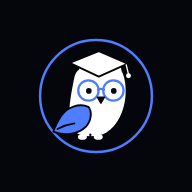
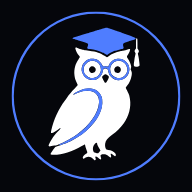
8.54: coruja nova (branca, óculos e capelo azuis, círculo preto com contorno azul) no ícone e no app
Claude-Session: https://claude.ai/code/session_0168VWPHQKDZsxdohENBWETL

diff --git a/index.html b/index.html
@@ -224,9 +224,9 @@ header{
 .header-app-title{display:block;height:1.75rem;width:auto}
 .side-logo-img{display:block;height:1.875rem;width:auto}
 .brand-owl{display:block;flex:none;color:var(--accent)}
-.auth-owl{width:5rem;height:5rem;margin:0 auto 0.75rem}
-.side-owl{width:2.5rem;height:2.5rem}
-.header-owl{width:2.125rem;height:2.125rem}
+.auth-owl{width:5.5rem;height:5.5rem;margin:0 auto 0.75rem}
+.side-owl{width:2.875rem;height:2.875rem}
+.header-owl{width:2.5rem;height:2.5rem}
 .header-brand{display:flex;align-items:center;gap:0.5rem}
 .auth-logo-img{display:block;height:3rem;width:auto;margin:0 auto 1rem}
 .home-greeting-text{
@@ -2375,7 +2375,7 @@ body.pdf-open{overflow:hidden}
 <canvas id="ribbonGlowCanvas" aria-hidden="true"></canvas>
 <svg style="display:none" aria-hidden="true">
 <defs>
-<symbol id="brand-owl" viewBox="0 0 512 512"><g transform="translate(256 256) scale(0.787) translate(-340 -365)" stroke-linejoin="round" stroke-linecap="round"><circle cx="340" cy="365" r="296" fill="#05060B" stroke="#4F7DFF" stroke-width="13"/><g transform="translate(0 22)"><path d="M224 252 C228 226 238 212 250 204 L256 186 L276 200 Q350 186 444 198 L470 184 L476 212 C494 244 500 296 496 344 C490 420 455 500 395 536 C362 556 310 560 270 552 C226 544 200 510 198 460 C196 400 210 320 224 252 Z" fill="#FFFFFF"/><ellipse cx="268" cy="560" rx="24" ry="15" fill="#FFFFFF"/><ellipse cx="352" cy="560" rx="24" ry="15" fill="#FFFFFF"/><path d="M310 546 V572" stroke="#05060B" stroke-width="10"/><path d="M200 168 L355 106 L508 172 L355 240 Z" fill="#FFFFFF" stroke="#05060B" stroke-width="10"/><path d="M500 178 L512 228" stroke="#FFFFFF" stroke-width="7" fill="none"/><circle cx="512" cy="236" r="13" fill="#FFFFFF"/><circle cx="300" cy="314" r="54" fill="#FFFFFF" stroke="#4F7DFF" stroke-width="12"/><circle cx="432" cy="314" r="54" fill="#FFFFFF" stroke="#4F7DFF" stroke-width="12"/><path d="M350 310 Q366 300 382 310" fill="none" stroke="#4F7DFF" stroke-width="12"/><circle cx="302" cy="316" r="15" fill="#05060B"/><circle cx="434" cy="316" r="15" fill="#05060B"/><path d="M346 348 H386 L366 382 Z" fill="#05060B" stroke="#05060B" stroke-width="6"/><path d="M300 400 C250 380 186 402 156 448 C136 478 122 506 114 532 C166 556 244 548 286 506 C314 476 322 428 300 400 Z" fill="#4F7DFF" stroke="#05060B" stroke-width="10"/><path d="M136 518 Q180 494 226 488" fill="none" stroke="#05060B" stroke-width="9"/></g></g></symbol>
+<symbol id="brand-owl" viewBox="72 72 880 880"><circle cx="512" cy="512" r="434" fill="#05060B" stroke="#4F7DFF" stroke-width="12"/><path d="M497.3 840.5C488.9 831.6 480.4 827.5 471.9 828.3C466.2 828.8 457.9 832.2 450.3 837.1C446.3 839.7 443.0 838.4 443.0 834.2C443.1 827.1 449.6 818.8 460.0 812.6C468.2 807.7 468.4 806.6 462.2 791.3C459.4 784.3 456.8 776.5 456.5 774.0C455.5 766.4 455.1 765.2 453.5 764.6C452.6 764.3 446.3 767.4 438.0 772.4C386.7 803.3 335.1 819.1 288.2 818.3C278.0 818.2 275.0 817.3 275.0 814.4C275.0 812.3 296.7 780.5 299.9 777.7C302.5 775.5 314.7 771.2 327.5 767.9C330.2 767.2 334.5 765.8 337.0 764.7C339.5 763.7 345.9 761.2 351.4 759.3C362.4 755.5 391.2 741.4 402.8 734.1C407.1 731.5 413.6 727.6 417.5 725.5C442.7 711.7 478.2 680.3 501.4 651.5C513.2 636.7 518.3 628.8 527.9 610.0C542.2 582.0 547.2 557.2 544.1 529.5C543.2 520.8 542.4 518.3 538.4 510.2C531.6 496.6 521.4 486.3 508.2 479.6C493.7 472.3 467.3 470.4 448.6 475.4C435.9 478.8 415.9 488.0 404.5 495.7C389.2 505.9 388.9 508.4 403.6 501.5C416.3 495.5 436.0 488.4 445.8 486.4C450.6 485.4 458.9 484.7 467.5 484.6C479.7 484.5 482.5 484.8 489.0 486.9C503.4 491.5 508.2 494.8 516.5 505.6C525.4 517.1 528.7 529.8 527.7 547.5C524.6 599.9 480.5 663.1 412.7 712.5C400.6 721.3 396.4 723.9 377.5 735.2C362.0 744.4 334.1 758.5 326.5 761.0C324.3 761.7 319.8 763.6 316.5 765.2C313.2 766.7 309.3 768.0 307.8 768.0C306.4 768.0 300.5 769.1 294.8 770.4C270.8 776.1 265.0 776.1 265.0 770.4C265.0 767.2 274.0 749.5 282.4 736.2C291.5 721.8 299.7 711.4 311.9 698.7C323.4 686.6 327.0 682.1 327.0 679.6C327.0 677.1 326.0 677.6 318.5 683.6C303.9 695.3 288.5 704.0 281.9 704.4C276.6 704.6 276.3 702.7 279.4 688.8C291.3 635.9 318.2 577.4 349.5 536.5C352.9 532.1 358.3 524.5 361.6 519.5C371.2 505.0 384.3 489.6 401.2 472.9C411.3 462.9 417.0 456.5 417.0 455.2C417.0 454.1 414.3 447.8 411.1 441.3C404.4 427.9 401.5 418.5 400.0 405.5C398.0 387.5 399.1 372.8 403.5 356.8C407.1 344.1 411.7 334.6 420.5 321.4C424.6 315.3 428.0 309.6 428.0 308.7C428.0 307.8 425.3 304.0 421.9 300.3C414.8 292.3 408.6 280.7 405.9 270.2C404.2 263.4 404.1 262.4 405.5 260.3C406.4 259.0 407.3 258.0 407.6 258.0C407.8 258.0 411.3 259.5 415.3 261.4C419.3 263.3 427.8 266.4 434.2 268.3C446.0 271.9 449.2 272.5 475.0 276.0C516.9 281.7 535.2 287.7 556.3 302.9C562.8 307.6 567.1 310.0 568.9 310.0C570.7 310.0 573.8 308.3 577.9 305.0C592.2 293.5 616.9 283.0 637.8 279.4C642.6 278.6 649.2 277.5 652.5 276.9C660.0 275.6 670.3 272.6 679.9 268.8C686.3 266.3 687.5 266.1 688.7 267.3C691.9 270.5 685.6 287.7 677.1 298.9C674.7 302.1 673.0 305.5 673.0 307.0C673.0 308.5 674.9 312.3 677.6 316.1C686.3 328.1 695.0 349.5 695.2 359.0C695.3 361.5 694.5 365.7 693.6 368.4L691.9 373.3L695.0 379.7C699.1 388.2 699.7 393.9 697.6 405.2C693.5 426.8 686.4 443.2 674.6 457.9C670.4 463.1 667.0 468.3 667.0 469.5C667.0 470.7 668.4 473.8 670.2 476.6C674.4 483.2 682.2 499.9 684.9 508.0C686.0 511.6 687.9 520.8 689.1 528.5C695.4 570.1 683.9 614.4 656.8 653.7C642.7 674.1 618.0 698.6 594.3 715.6C572.7 731.2 562.6 744.0 559.9 759.4C557.8 771.5 560.8 786.2 566.2 790.8C566.9 791.4 571.1 792.2 575.5 792.6C591.7 794.0 603.5 799.4 610.7 808.8C615.4 814.9 616.8 820.2 614.6 823.5C613.7 824.9 612.3 826.0 611.6 826.0C610.8 826.0 607.8 823.9 604.8 821.4C592.9 811.2 585.6 810.3 589.4 819.5C591.3 824.0 591.5 829.1 589.8 830.8C587.3 833.3 583.8 832.0 577.7 826.3C568.7 818.0 562.6 815.5 552.0 815.6C545.7 815.6 542.4 816.1 539.5 817.6C535.8 819.4 535.5 819.8 535.6 823.5C535.7 825.7 536.6 829.6 537.6 832.3C539.3 836.6 539.4 837.3 538.0 839.8C537.1 841.3 535.7 842.6 534.8 842.8C533.9 843.0 530.1 840.4 526.2 836.8C522.4 833.3 517.4 829.6 515.1 828.6C511.3 826.8 510.8 826.8 509.4 828.2C508.0 829.6 508.0 830.3 509.6 835.4C511.9 842.6 510.9 846.4 506.5 846.8C503.9 847.0 502.6 846.1 497.3 840.5ZM528.7 804.8C532.4 801.2 535.0 797.7 535.0 796.5C535.0 795.4 532.1 789.7 528.5 784.0C521.9 773.3 518.0 764.7 518.0 760.7C518.0 754.6 512.6 754.5 506.6 760.5C497.3 769.9 493.6 784.4 497.4 797.3C499.3 803.8 502.1 806.4 508.8 807.9C511.4 808.4 514.6 809.3 516.0 809.9C520.7 811.7 522.4 811.1 528.7 804.8ZM568.6 436.0C573.8 427.9 579.0 416.2 579.0 412.6C579.0 410.6 577.4 408.8 571.7 404.5C562.1 397.4 560.4 397.3 551.4 404.3C541.9 411.6 541.8 413.2 550.1 428.2C557.4 441.5 558.5 443.0 561.7 443.0C563.5 443.0 565.1 441.4 568.6 436.0ZM642.8 428.0C654.0 424.9 661.7 420.5 669.1 413.1C687.1 395.1 691.2 367.2 678.9 346.3C674.4 338.7 662.7 327.0 656.8 324.2C644.0 318.3 631.1 316.7 617.5 319.5C607.3 321.6 603.8 323.3 596.1 329.5C588.1 336.0 583.1 342.4 579.1 351.2C575.7 358.9 574.1 359.7 566.9 357.9C562.9 356.9 560.8 356.9 555.9 357.9C548.5 359.4 548.3 359.2 543.2 349.6C538.8 341.0 526.0 327.7 518.3 323.7C503.9 316.0 479.6 316.3 466.0 324.3C458.3 328.8 447.1 340.3 443.7 347.2C436.9 360.8 435.3 375.7 439.4 387.6C446.3 407.8 454.7 417.5 472.2 425.3C479.3 428.4 479.9 428.5 493.5 428.5C506.7 428.5 507.8 428.3 513.4 425.7C531.9 417.1 544.4 401.5 547.2 383.3C548.5 374.6 550.1 371.7 554.4 369.6C560.4 366.8 568.2 368.1 572.3 372.7C573.3 373.9 575.2 379.6 576.5 385.5C579.5 398.6 582.1 403.3 591.7 412.8C606.3 427.3 625.2 432.9 642.8 428.0ZM483.6 418.0C475.9 416.7 468.1 412.2 460.4 404.5C450.5 394.7 448.6 389.6 448.5 373.5C448.5 362.2 448.7 361.2 451.5 355.5C455.5 347.5 465.4 337.1 473.1 333.0C482.1 328.2 493.2 327.1 503.6 330.0C514.1 332.8 518.6 335.4 524.8 341.9C533.1 350.5 536.1 357.8 537.5 372.5C538.1 378.4 537.8 380.5 535.9 385.5C531.5 397.4 522.2 409.2 514.1 413.5C509.8 415.7 496.3 419.0 492.0 418.9C490.1 418.8 486.3 418.4 483.6 418.0ZM619.5 417.1C610.8 414.5 605.3 411.4 599.2 405.7C590.7 397.5 588.3 392.3 586.0 376.8C583.1 356.9 599.1 334.6 619.9 329.5C633.4 326.2 649.7 330.3 660.1 339.7C668.2 347.0 672.7 356.1 675.1 369.5C676.0 374.6 675.9 376.9 674.5 382.6C669.9 401.2 655.5 415.2 638.0 418.0C629.4 419.3 626.6 419.2 619.5 417.1ZM501.0 390.0C505.8 387.5 510.0 381.6 510.7 376.1C512.1 365.7 500.5 355.4 489.6 357.4C484.7 358.3 477.6 365.2 476.0 370.5C473.8 377.9 478.3 387.5 485.5 390.6C489.9 392.5 496.5 392.3 501.0 390.0ZM631.4 390.6C635.3 389.0 639.3 384.1 641.0 378.7C644.2 368.7 634.6 356.9 623.4 357.0C619.0 357.1 613.0 360.9 609.9 365.7C607.2 369.9 606.9 371.2 607.2 376.1C607.7 382.7 610.4 387.1 615.8 390.0C620.2 392.3 626.8 392.5 631.4 390.6ZM720.0 359.3C710.9 357.9 709.0 356.0 709.0 348.6C709.0 345.7 709.4 340.9 710.0 338.1C710.5 335.2 711.5 328.7 712.0 323.7C712.6 318.6 714.3 309.2 715.8 302.7L718.4 290.8L715.7 286.0C712.1 279.7 712.3 277.0 716.5 270.1L720.1 264.3L720.5 238.9C720.7 224.9 720.9 213.2 720.9 212.8C721.1 211.1 726.0 212.1 727.0 213.9C727.6 215.1 728.0 225.4 728.0 240.3L728.0 264.8L731.5 269.8C736.5 277.1 736.6 278.6 733.0 285.4L729.8 291.3L732.4 301.9C734.8 312.3 737.8 332.8 738.7 346.3C739.2 352.4 739.0 353.4 737.0 355.5C734.3 358.3 725.7 360.3 720.0 359.3Z" fill="#FFFFFF" fill-rule="evenodd"/><path d="M320.9 767.4C318.9 764.9 320.9 762.8 327.6 760.5C330.8 759.4 338.7 755.8 345.0 752.5C351.3 749.3 359.0 745.4 362.0 743.9C365.0 742.4 372.4 738.2 378.5 734.7C399.7 722.1 401.3 721.0 423.3 704.7C434.3 696.5 458.5 674.6 464.3 667.6C466.6 664.8 472.2 658.5 476.8 653.7C481.3 648.8 486.3 642.9 488.0 640.6C494.9 631.1 505.8 614.1 508.8 608.5C512.4 601.7 520.0 584.4 520.0 583.1C520.0 582.5 520.7 580.6 521.5 579.1C525.9 570.4 529.3 540.9 527.1 530.0C525.1 519.8 523.0 513.5 521.0 511.0C519.9 509.6 517.4 506.4 515.5 503.9C509.5 495.9 503.7 492.0 492.6 488.2C478.2 483.3 462.5 482.9 443.0 486.9C434.8 488.6 415.3 495.9 406.4 500.5C397.8 505.0 394.5 505.8 394.5 503.1C394.5 501.7 410.0 491.1 416.0 488.4C417.9 487.5 423.6 485.0 428.5 482.8C447.7 474.1 467.3 470.5 482.0 472.9C498.2 475.4 500.7 476.0 506.5 478.6C522.3 485.7 538.4 504.1 542.4 519.6C545.8 532.6 545.3 563.5 541.7 575.0C540.9 577.5 539.4 582.0 538.5 585.0C536.1 592.9 528.8 609.5 524.4 617.0C522.4 620.6 519.2 626.2 517.4 629.4C511.7 639.8 495.0 660.1 478.0 677.0C455.4 699.7 440.3 711.9 421.5 723.0C417.6 725.3 409.8 730.0 404.0 733.5C388.8 742.6 352.8 760.0 349.2 760.0C348.7 760.0 344.0 761.7 338.9 763.9C327.1 768.7 322.7 769.6 320.9 767.4ZM625.0 429.4C609.9 427.2 602.2 423.3 591.2 412.3C581.4 402.5 579.0 397.9 576.1 383.7C573.9 372.8 573.4 371.9 568.6 369.6C562.2 366.6 552.8 368.3 549.6 373.2C548.8 374.4 547.8 378.4 547.5 382.0C547.0 386.7 545.6 391.1 542.3 398.0C536.4 410.4 529.2 417.6 516.6 424.0L507.7 428.5L493.6 428.5C480.0 428.5 479.3 428.4 472.3 425.3C468.3 423.6 462.6 420.5 459.6 418.5C448.2 411.0 437.0 389.0 437.0 374.1C437.0 358.1 445.7 339.0 456.8 330.7C463.5 325.6 472.2 320.9 476.9 319.8C491.0 316.7 508.3 318.3 518.3 323.8C528.6 329.3 539.4 341.3 545.2 353.5C547.8 359.0 547.3 358.9 559.6 357.4C563.1 357.0 565.8 357.3 568.5 358.4C570.5 359.3 572.6 360.0 573.1 360.0C574.9 360.0 578.0 355.5 579.6 350.6C582.7 341.1 594.0 329.3 605.5 323.3C607.9 322.1 613.2 320.4 617.3 319.6C644.0 314.1 666.6 324.5 680.0 348.2C690.8 367.6 686.6 394.6 670.0 412.4C658.8 424.3 639.8 431.5 625.0 429.4ZM504.0 417.0C513.5 414.6 517.8 412.1 524.1 405.4C529.7 399.3 533.2 393.4 536.0 385.2C537.8 380.0 538.1 377.7 537.5 371.7C535.3 348.5 524.9 335.9 502.9 329.5C494.8 327.2 483.6 328.3 474.8 332.2C466.3 336.1 455.3 347.0 451.2 355.7C448.7 361.1 448.5 362.4 448.5 374.5C448.5 387.1 448.6 387.7 451.7 393.5C457.7 404.9 472.0 416.0 483.1 417.9C491.7 419.3 495.2 419.1 504.0 417.0ZM643.1 417.1C649.3 415.8 654.2 412.7 661.4 405.5C669.1 397.8 672.3 392.4 674.5 383.3C676.4 375.1 676.0 369.0 672.8 359.5C668.7 347.1 661.4 338.7 649.8 333.0C643.4 329.9 640.7 329.2 633.3 328.6C619.0 327.5 607.5 332.1 598.0 342.8C591.1 350.6 588.5 355.2 586.6 363.8C584.9 371.1 585.1 373.2 587.9 387.7C590.3 400.2 603.4 412.5 619.5 417.4C624.8 419.0 634.7 418.9 643.1 417.1ZM558.9 292.5C554.3 289.5 550.0 287.0 549.3 287.0C548.6 287.0 545.2 285.5 541.8 283.6C527.9 276.0 503.0 269.2 480.5 266.9C470.4 265.9 466.0 264.2 466.0 261.4C466.0 260.6 466.9 258.1 468.1 255.9C470.6 250.9 471.6 243.1 470.1 240.3C468.9 237.9 458.7 233.7 447.4 231.0C443.2 229.9 435.6 227.7 430.6 226.1C419.5 222.4 397.8 215.6 393.0 214.3C386.7 212.7 388.1 210.7 398.6 206.6C404.0 204.6 412.2 202.0 416.9 200.9C421.6 199.7 428.9 197.6 433.0 196.0C441.5 192.8 457.5 187.9 466.5 185.7C469.8 184.9 477.7 182.4 484.0 180.1C490.3 177.8 498.6 175.2 502.5 174.4C506.4 173.5 511.1 172.0 513.0 171.1C514.9 170.1 520.1 168.6 524.5 167.6C528.9 166.6 535.0 164.9 538.0 163.8C541.0 162.8 546.0 161.2 549.0 160.5C552.0 159.7 556.5 158.4 558.9 157.6C564.5 155.6 570.7 155.6 574.5 157.6C576.1 158.5 581.3 160.3 586.0 161.5C590.7 162.8 599.7 165.9 606.1 168.3C612.5 170.8 622.5 174.2 628.3 175.8C634.0 177.5 641.0 180.0 643.7 181.3C646.3 182.7 650.6 184.3 653.0 185.0C655.5 185.7 658.9 186.9 660.5 187.8C662.1 188.6 667.1 190.3 671.5 191.6C675.9 192.8 683.1 195.3 687.5 197.0C691.9 198.8 697.3 200.8 699.6 201.5C708.3 204.3 719.0 210.0 719.0 211.9C719.0 214.1 709.7 218.8 699.5 221.8C695.6 222.9 687.3 225.7 681.0 227.9C674.7 230.2 668.8 232.0 668.0 232.0C665.7 232.0 656.8 236.9 654.8 239.2C652.5 241.8 652.4 249.0 654.6 255.1C656.7 260.9 655.9 264.4 652.3 265.8C650.7 266.4 642.4 268.5 633.7 270.5C625.1 272.5 614.5 275.3 610.2 276.8C600.3 280.3 579.0 291.2 574.6 295.0C572.7 296.7 570.4 298.0 569.3 298.0C568.2 298.0 563.5 295.5 558.9 292.5Z" fill="#4F7DFF" fill-rule="evenodd"/></symbol>
 <g id="icon-school"><path d="M3 21h18"/><path d="M5 21V9l7-5 7 5v12"/><path d="M10 21v-5h4v5"/><path d="M10 11h4"/></g>
 <g id="icon-home"><path d="M3 11.5L12 4l9 7.5"/><path d="M5.5 10v9.5a1 1 0 0 0 1 1H10v-6h4v6h3.5a1 1 0 0 0 1-1V10"/></g>
 <g id="icon-calendar"><rect x="3.5" y="5" width="17" height="15.5" rx="2"/><path d="M3.5 9.5h17"/><path d="M8 3v4"/><path d="M16 3v4"/></g>
@@ -2422,7 +2422,7 @@ body.pdf-open{overflow:hidden}
 
 <div id="authGate" class="is-loading">
 <div class="auth-card">
-<svg class="brand-owl auth-owl" viewBox="0 0 512 512" aria-hidden="true"><use href="#brand-owl"/></svg><img class="auth-logo-img" src="icons/logo-text.png" alt="Hi Teacher">
+<svg class="brand-owl auth-owl" viewBox="72 72 880 880" aria-hidden="true"><use href="#brand-owl"/></svg><img class="auth-logo-img" src="icons/logo-text.png" alt="Hi Teacher">
 <p class="auth-tagline">Agenda, alunos e mensalidades do professor particular, num lugar só.</p>
 <p id="authSubtitle">Entre pra acessar seus dados.</p>
 <div id="authChoice" style="display:none">
@@ -2509,7 +2509,7 @@ body.pdf-open{overflow:hidden}
 <button class="menu-btn" id="menuBtn" aria-label="Abrir menu"><span class="menu-badge-dot" id="menuBadgeDot" style="display:none"></span><svg viewBox="0 0 24 24" fill="none" stroke="currentColor" stroke-width="2" stroke-linecap="round"><path d="M3 6h18"/><path d="M3 12h18"/><path d="M3 18h18"/></svg></button>
 <div class="top">
 <div>
-<div class="header-brand"><svg class="brand-owl header-owl" viewBox="0 0 512 512" aria-hidden="true"><use href="#brand-owl"/></svg><img class="header-app-title" src="icons/logo-text.png" alt="Hi Teacher"></div>
+<div class="header-brand"><svg class="brand-owl header-owl" viewBox="72 72 880 880" aria-hidden="true"><use href="#brand-owl"/></svg><img class="header-app-title" src="icons/logo-text.png" alt="Hi Teacher"></div>
 <div class="date" id="dateLabel">Início</div>
 </div>
 <button type="button" class="stu-bell" id="teacherBell" aria-label="Notificações" aria-haspopup="dialog" aria-expanded="false"><svg viewBox="0 0 24 24" aria-hidden="true"><use href="#icon-bell"/></svg><span class="stu-bell-badge" id="teacherBellBadge" style="display:none"></span></button>
@@ -2897,7 +2897,7 @@ body.pdf-open{overflow:hidden}
 
 <!-- Barra Lateral Reestruturada -->
 <aside class="sidebar" id="sidebar">
-<div class="side-logo"><svg class="brand-owl side-owl" viewBox="0 0 512 512" aria-hidden="true"><use href="#brand-owl"/></svg><img class="side-logo-img" src="icons/logo-text.png" alt="Hi Teacher"></div>
+<div class="side-logo"><svg class="brand-owl side-owl" viewBox="72 72 880 880" aria-hidden="true"><use href="#brand-owl"/></svg><img class="side-logo-img" src="icons/logo-text.png" alt="Hi Teacher"></div>
 <div class="nav">
 <div class="nav-sec" id="navSchoolSec" style="display:none">
 <div class="nav-sec-label">Escola</div>
@@ -2987,7 +2987,7 @@ body.pdf-open{overflow:hidden}
 <button class="menu-btn" id="stuMenuBtn" aria-label="Abrir menu"><svg viewBox="0 0 24 24" fill="none" stroke="currentColor" stroke-width="2" stroke-linecap="round"><path d="M3 6h18"/><path d="M3 12h18"/><path d="M3 18h18"/></svg></button>
 <div class="top">
 <div>
-<div class="header-brand"><svg class="brand-owl header-owl" viewBox="0 0 512 512" aria-hidden="true"><use href="#brand-owl"/></svg><img class="header-app-title" id="stuLogo" alt="Hi Teacher"></div>
+<div class="header-brand"><svg class="brand-owl header-owl" viewBox="72 72 880 880" aria-hidden="true"><use href="#brand-owl"/></svg><img class="header-app-title" id="stuLogo" alt="Hi Teacher"></div>
 <div class="date" id="stuPageTitle">Início</div>
 <select id="stuPicker" class="stu-picker" aria-label="Aluno" style="display:none"></select>
 </div>
@@ -2999,7 +2999,7 @@ body.pdf-open{overflow:hidden}
 </div>
 <div class="overlay stu-shell" id="stuOverlay"></div>
 <aside class="sidebar stu-shell" id="stuSidebar">
-<div class="side-logo"><svg class="brand-owl side-owl" viewBox="0 0 512 512" aria-hidden="true"><use href="#brand-owl"/></svg><img class="side-logo-img" id="stuSideLogo" alt="Hi Teacher"></div>
+<div class="side-logo"><svg class="brand-owl side-owl" viewBox="72 72 880 880" aria-hidden="true"><use href="#brand-owl"/></svg><img class="side-logo-img" id="stuSideLogo" alt="Hi Teacher"></div>
 <div class="nav">
 <button class="nav-item" data-stu-page="home"><span class="nav-item-row"><svg class="nav-icon" viewBox="0 0 24 24"><use href="#icon-home"/></svg>Início</span></button>
 <button class="nav-item" data-stu-page="lessons"><span class="nav-item-row"><svg class="nav-icon" viewBox="0 0 24 24"><use href="#icon-calendar"/></svg>Aulas</span></button>
@@ -3875,7 +3875,7 @@ const supabaseClient = (typeof supabase !== "undefined" && SUPABASE_CONFIGURED)
 // Todas as chaves do localStorage que guardam dados do app (as mesmas sincronizadas na nuvem).
 const CLOUD_SYNC_KEYS = ["jp_students_v5","jp_settings_v1","jp_earnings_v3","jp_student_counts_v1","jp_agenda_events_v1","jp_feedback_v1","jp_lesson_plans_v5","jp_goals_v1"];
 // Constantes usadas já na primeira renderização (ficam aqui em cima por causa da ordem de carga).
-const APP_VERSION = "8.53";
+const APP_VERSION = "8.54";
 // Idioma (8.42): troca entre português e inglês e recarrega. Fica guardado neste aparelho.
 function langSwitchLabel(){ return APP_LANG === "en" ? "🌐 Mudar para português" : "🌐 Switch to English"; }
 function langSwitch(){
@@ -10451,7 +10451,7 @@ return `<div class="plan-card tier-${p.tier}${p.best ? " best" : ""}${isCur ? " 
 <div class="plan-name">${escapeHtml(p.name)}</div><div class="plan-price">${escapeHtml(planPriceText(p))}</div>
 <ul class="plan-perks">${p.perks.map(x => `<li>${escapeHtml(x)}</li>`).join("")}</ul>${btn}</div>`;
 }).join("");
-gate.innerHTML = `<div class="plan-wrap"><svg class="brand-owl plan-owl" viewBox="0 0 512 512" aria-hidden="true"><use href="#brand-owl"/></svg>${intro}
+gate.innerHTML = `<div class="plan-wrap"><svg class="brand-owl plan-owl" viewBox="72 72 880 880" aria-hidden="true"><use href="#brand-owl"/></svg>${intro}
 <div class="plan-count">Você tem <b>${n}</b> aluno${n === 1 ? "" : "s"} ativo${n === 1 ? "" : "s"}.</div>
 <div class="plan-grid">${cards}</div>
 ${STORE_APP ? `<p class="plan-foot">Neste app você usa o plano Grátis ou o plano que já está na sua conta.</p>` : ""}
@@ -13557,7 +13557,7 @@ try { token = new URLSearchParams(location.search).get("ficha") || ""; } catch(e
 if (!/^[a-f0-9]{16,64}$/i.test(token)) return;
 const gate = document.createElement("div");
 gate.id = "leadGate";
-gate.innerHTML = `<div class="auth-card lead-card"><div class="lead-head"><svg class="brand-owl auth-owl" viewBox="0 0 512 512" aria-hidden="true"><use href="#brand-owl"/></svg><h2>Ficha de matrícula</h2><div class="lead-sub" id="lfTeacher">Carregando…</div></div><div id="lfBody"></div></div>`;
+gate.innerHTML = `<div class="auth-card lead-card"><div class="lead-head"><svg class="brand-owl auth-owl" viewBox="72 72 880 880" aria-hidden="true"><use href="#brand-owl"/></svg><h2>Ficha de matrícula</h2><div class="lead-sub" id="lfTeacher">Carregando…</div></div><div id="lfBody"></div></div>`;
 document.body.appendChild(gate);
 document.body.classList.add("lead-open");
 const body = gate.querySelector("#lfBody");

diff --git a/tools/gerar-icones.js b/tools/gerar-icones.js
@@ -1,6 +1,6 @@
 // Gera os ícones do app instalável (pasta icons/) a partir do símbolo da logo
 // e do APK Android (android/app/src/main/res/mipmap-*) a partir de icons/logo-mark.svg:
-// a coruja branca de óculos e capelo, asa ciano, dentro do círculo ciano (8.33).
+// a coruja branca de óculos e capelo azuis dentro do círculo azul (8.54).
 // Como rodar (na pasta do repositório, com Node e Playwright):
 //   node tools/gerar-icones.js
 // Fundo preto #05060B liso (sem brilho) e a coruja centralizada. No Android, o "foreground" é sem fundo
@@ -16,15 +16,15 @@ const outDir = path.join(root, "icons");
 
 // size: lado do PNG; markW: tamanho do símbolo em relação ao lado.
 const ICONS = [
-  { file: "icon-192.png", size: 192, markW: 0.64 },
-  { file: "icon-512.png", size: 512, markW: 0.64 },
-  { file: "icon-maskable-512.png", size: 512, markW: 0.5 },   // área segura do ícone "maskable"
-  { file: "apple-touch-icon.png", size: 180, markW: 0.64 },
-  { file: "favicon-32.png", size: 32, markW: 0.92 }
+  { file: "icon-192.png", size: 192, markW: 0.88 },
+  { file: "icon-512.png", size: 512, markW: 0.88 },
+  { file: "icon-maskable-512.png", size: 512, markW: 0.76 },   // área segura do ícone "maskable"
+  { file: "apple-touch-icon.png", size: 180, markW: 0.88 },
+  { file: "favicon-32.png", size: 32, markW: 1 }
 ];
 const RES = path.join(root, "android", "app", "src", "main", "res");
 for (const [d, n] of [["mdpi", 48], ["hdpi", 72], ["xhdpi", 96], ["xxhdpi", 144], ["xxxhdpi", 192]]) {
-  ICONS.push({ dir: path.join(RES, "mipmap-" + d), file: "ic_launcher.png", size: n, markW: 0.86 });
+  ICONS.push({ dir: path.join(RES, "mipmap-" + d), file: "ic_launcher.png", size: n, markW: 0.94 });
   ICONS.push({ dir: path.join(RES, "mipmap-" + d), file: "ic_launcher_foreground.png", size: n * 2.25, markW: 0.6, bare: true });
 }
 

diff --git a/HI-TEACHER.md b/HI-TEACHER.md
@@ -47,7 +47,7 @@ Tema escuro único (não tem modo claro). A identidade visual é **azul e preto*
 - **Inter** (via stack de sistema `Inter, system-ui, -apple-system, BlinkMacSystemFont, "Segoe UI", sans-serif`) — fonte de toda a interface, inclusive da saudação da Home (não é carregada de fora, usa a instalada no sistema ou a mais próxima). Números de tabela/KPI/horário usam `tabular-nums`.
 - A **Fraunces** itálica que era usada só na saudação "Olá, [nome]" foi removida no redesign glass (o briefing pediu tipografia sans-serif limpa); o `<link>` do Google Fonts saiu junto, então o app não carrega mais nenhuma fonte externa.
 - **Logo "Hi Teacher"** (8.53, escolhida pelo dono): "hi teacher" em minúsculas, fonte **Poppins 700**; "hi" em branco (no claro, quase preto `#0B1524`) e "teacher" em azul royal `#4F7DFF`. Arquivos `icons/logo-text.png` e `icons/logo-text-light.png`. A Poppins (500/600/700) fica guardada no site em `fonts/` e também vai nos títulos e botões (`--font-display`); o texto corrido continua na fonte do sistema. Antes (8.15.1): Nunito 800 com "teacher" ciano.
-- **Coruja do app** (8.33, escolhida pelo dono entre as opções geradas com a IA de imagens do Figma e redesenhada em vetor): coruja **branca** de **óculos redondos** (azul royal desde a 8.53) (pupilas pretas), **capelo** (chapéu de formatura) branco com pingente, bico em triângulo preto, uma **asa ciano** em folha na frente do corpo e dois pezinhos, dentro de um **círculo** com contorno ciano (`#2FD3F2`) e miolo preto `#05060B`. Sem brilho, sem nada de música; expressão tranquila (o dono recusou olhos bravos, "fofinhos" ou com cara feminina). Fica em `icons/logo-mark.svg` (ícones do app, favicon e do APK) e no sprite do HTML como `<symbol id="brand-owl" viewBox="0 0 512 512">` (cores fixas, classe `.brand-owl`). Aparece acima da logo no login (`.auth-owl`), ao lado da logo na barra lateral do professor e do aluno (`.side-owl`) e no cabeçalho (`.header-owl`, dentro de `.header-brand`). Antes: 8.29 traço fino com fundo brilhante; 8.30 só linhas ciano — trocadas.
+- **Coruja do app** (8.54, escolhida pelo dono entre as opções geradas com a IA de imagens do Figma e passada pra vetor contornando a imagem): coruja **branca** de lado, com **óculos redondos azuis**, **capelo azul** com pingente branco, uma linha azul marcando a asa e pezinhos, dentro de um **círculo preto `#05060B` com contorno fino azul royal `#4F7DFF`**. Simples, sem brilho, cara neutra (o dono recusou corujas "fofinhas", com cara feminina, brava ou de traço amador). Fica em `icons/logo-mark.svg` (ícones do app, favicon e APK) e no sprite do HTML como `<symbol id="brand-owl" viewBox="72 72 880 880">`. Aparece ao lado da escrita "hi teacher" (Poppins): acima no login (`.auth-owl`), ao lado na barra lateral (`.side-owl`) e no cabeçalho (`.header-owl`). Antes: 8.29 traço fino; 8.30 só linhas ciano; 8.33 coruja branca com asa ciano.
 
 ## Estrutura das páginas
 
@@ -390,8 +390,9 @@ Ajustes pedidos pelo Jp depois da 8.25:
 - Os professores de exemplo aparecem sozinhos enquanto a escola não tem outros professores de verdade. Quem tira o exemplo (ou liga de novo) em Configurações → Escola ou no Início da escola fica com a escolha.
 - Professores: saiu o cartão "Traga os professores" do fim da página; convidar é só pelo +.
 
-## Coruja (8.29 → 8.30 → 8.33)
+## Coruja (8.29 → 8.30 → 8.33 → 8.54)
 
+- 8.54: coruja nova no círculo preto com contorno azul (detalhes em Estilo visual); ícones maiores dentro do quadrado (o círculo já dá a margem). APK: `versionName` 8.54, `versionCode` 11 — gerar de novo pra trocar o ícone no celular.
 - 8.33: nova coruja branca de óculos e capelo dentro do círculo ciano (detalhes em Estilo visual). `node tools/gerar-icones.js` agora também refaz os ícones do APK (`mipmap-*/ic_launcher.png` e `ic_launcher_foreground.png`, este sem fundo e com margem). APK: `versionName` 8.33, `versionCode` 6 — precisa gerar o APK de novo pra trocar o ícone no celular.
 - 8.30: trocada pela coruja escolhida (linhas ciano, sem brilho); ícone com fundo preto liso. APK: `appVersionName` 8.30, `appVersionCode` 3.
 
